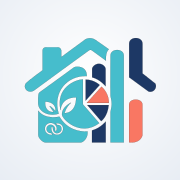
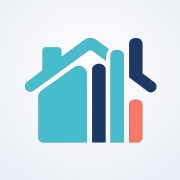
Update assets and localization strings for Dashboard
- Updated logo and icon assets: apple-touch-icon, favicon, maskable-icon, and PWA icons.
- Modified logo-emblem.svg for improved design consistency.
- Changed localization strings in English and Italian for better clarity in the dashboard.
- Adjusted DashboardView.vue to handle multiple readings more effectively, consolidating them into a single entry with an updated action label.

diff --git a/frontend/src/views/DashboardView.vue b/frontend/src/views/DashboardView.vue
@@ -401,19 +401,34 @@ const attentionItems = computed(() => {
     })
   }
 
-  readings.forEach(({ u, days }) => {
+  // Multiple pending readings collapse into ONE row so the brief stays a short
+  // list of concrete priorities. The action opens the utilities list (it does
+  // not log a reading inline) → labelled "Apri", not "Registra".
+  if (readings.length >= 2) {
     items.push({
-      key: `reading-${u.id}`,
+      key: 'readings-group',
       tone: 'info',
       icon: 'reading',
-      title: serviceLabel(u),
-      detail: days === null
-        ? t('dashboard.attention.readingMissing')
-        : t(`dashboard.attention.readingLast_${days === 1 ? 'one' : 'other'}`, { n: days }),
-      to: `/utilities/${u.id}`,
-      action: t('dashboard.attention.logReading'),
+      title: t('dashboard.attention.readingsGroup', { n: readings.length }),
+      detail: readings.map(({ u }) => serviceLabel(u)).join(', '),
+      to: '/utilities',
+      action: t('dashboard.attention.open'),
     })
-  })
+  } else {
+    readings.forEach(({ u, days }) => {
+      items.push({
+        key: `reading-${u.id}`,
+        tone: 'info',
+        icon: 'reading',
+        title: serviceLabel(u),
+        detail: days === null
+          ? t('dashboard.attention.readingMissing')
+          : t(`dashboard.attention.readingLast_${days === 1 ? 'one' : 'other'}`, { n: days }),
+        to: `/utilities/${u.id}`,
+        action: t('dashboard.attention.open'),
+      })
+    })
+  }
 
   ;(projects.value || []).forEach((p) => {
     if (p.status === 'active' && (p.stats?.percentage_spent ?? 0) > 100) {
